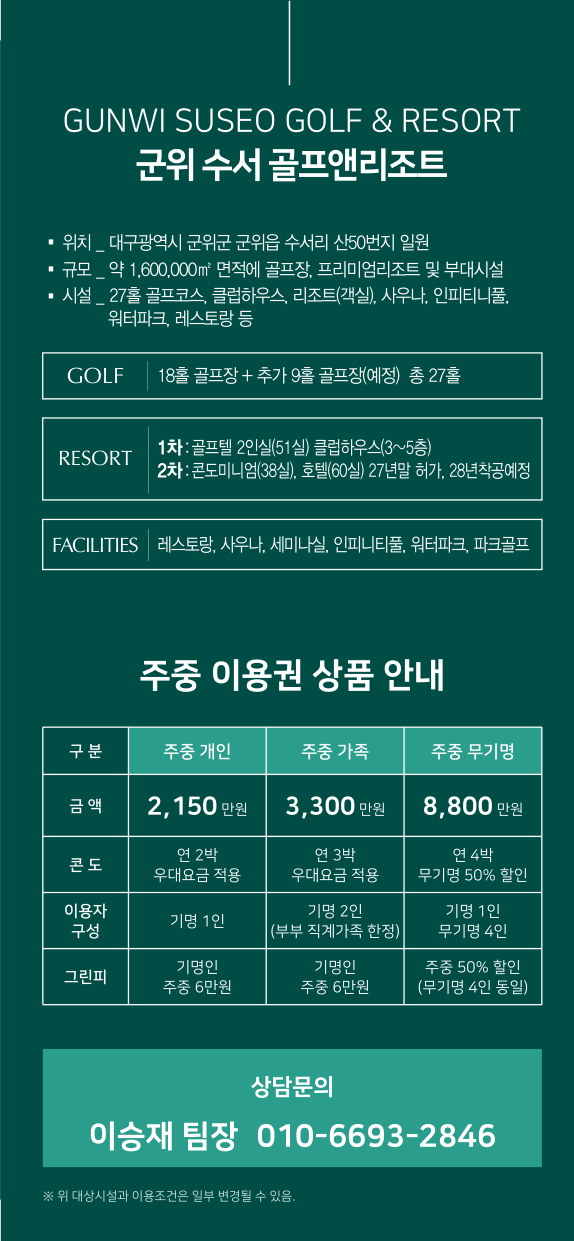
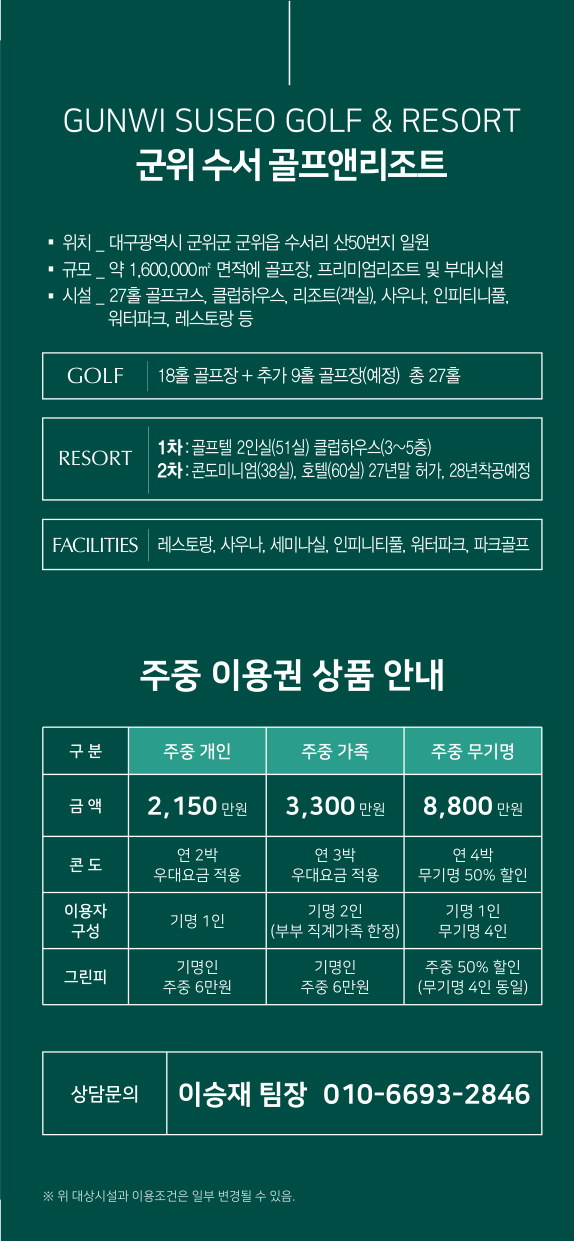
v6 리뉴얼: ④ 상담문의를 원본 박스 문법(흰 테두리·라벨 칸)으로

Changed region(s): [[0.0592, 0.8268, 0.9477, 0.9492]]

diff --git a/leaflet/index.html b/leaflet/index.html
@@ -90,7 +90,7 @@
 
 <script>
 (function () {
-  var BUILD = '202609071424';   // 이미지 캐시 무효화용. 빌드마다 갱신
+  var BUILD = '202609071428';   // 이미지 캐시 무효화용. 빌드마다 갱신
   var VERS = [
     ['v2', 'v2'],
     ['v3b', 'v3'],
